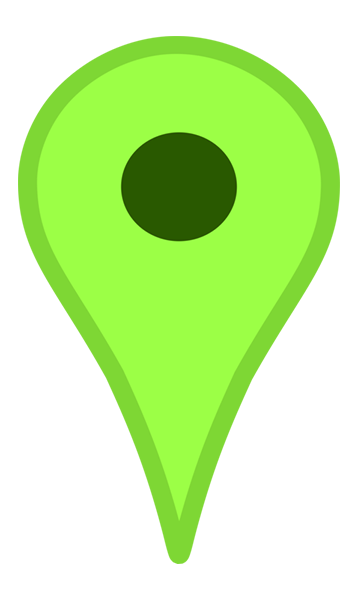
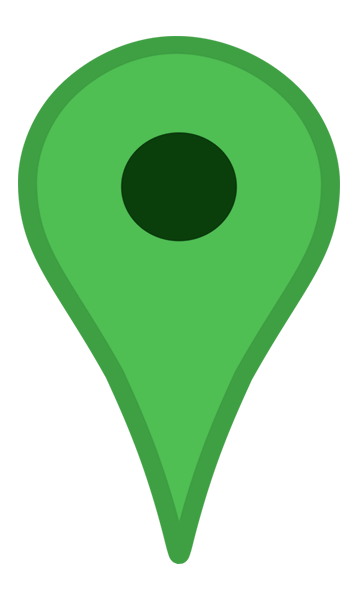
Pins Update

diff --git a/src/components/maps/HospitalsMap.vue b/src/components/maps/HospitalsMap.vue
@@ -174,7 +174,7 @@ export default {
     customLegendControl: function () {
       let legend = L.control({ position: 'topleft' });
       legend.onAdd = function () {
-        let colors = ['#008000', '#ffa500', '#FF0000', '#808080']
+        let colors = ['#4fbe53', '#ff8146', '#ff4649', '#a2a2a2']
 
         let div = L.DomUtil.create('div', 'info legend'),
             grades = ['Capacities',  'Limited','No capacities', 'Not specified'];
